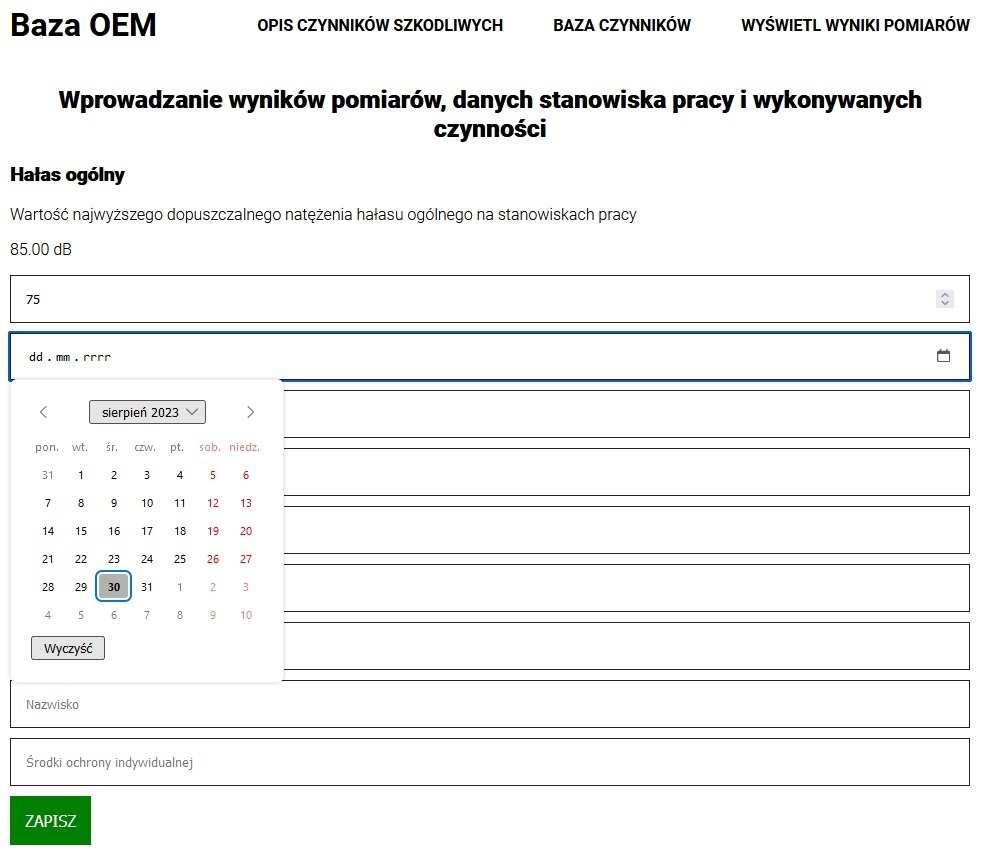
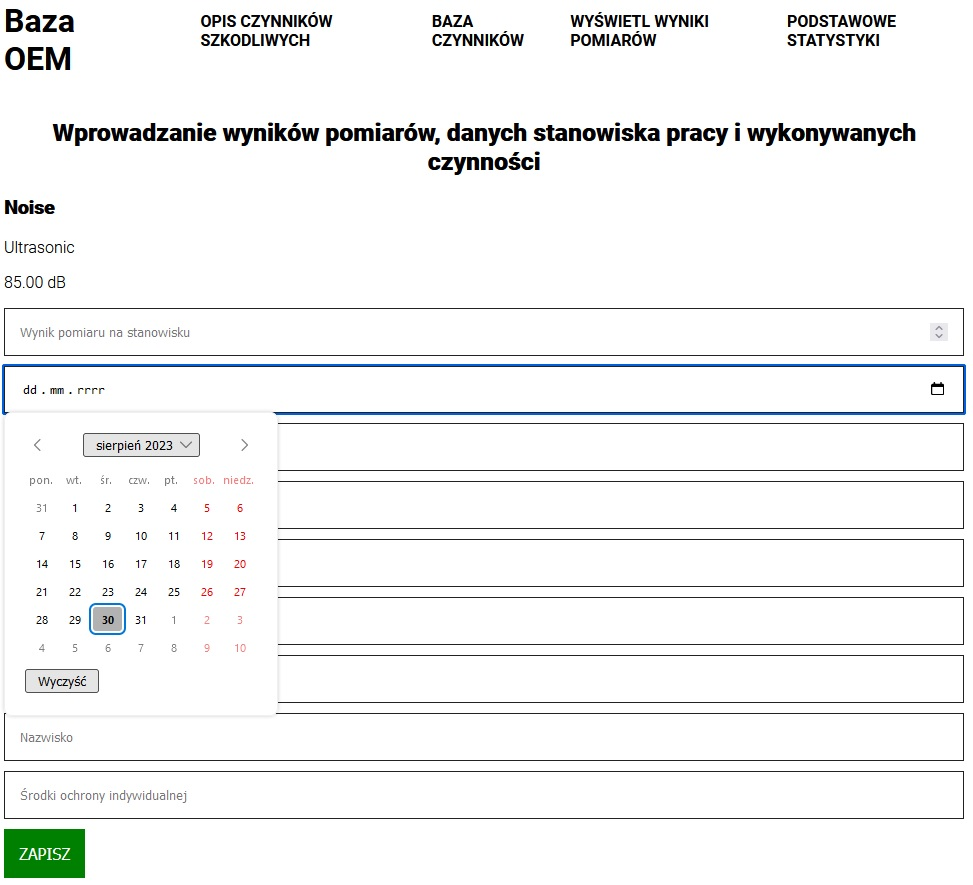
Dołożenie strony z podstaowymi statystykami, kontrolerem. Aktualizacji nawigacji, aktualizacja pliku readme, aktyalizacja obrazków

diff --git a/src/main/resources/templates/statPage.html b/src/main/resources/templates/statPage.html
@@ -1,0 +1,46 @@
+<!DOCTYPE html>
+<html lang="en" xmlns:th="https://www.thymeleaf.org"
+      th:replace="~{fragments/layout :: template (~{:: #stat_content})}">
+<section id="stat_content">
+    <div class="container">
+        <h1>Podstawowe statystyki pomiarów na stanowiskach pracy</h1>
+        <form action="">
+
+
+            <div>
+                <canvas id="myChart"></canvas>
+            </div>
+
+            <script src="https://cdn.jsdelivr.net/npm/chart.js"></script>
+
+            <script th:inline="javascript">
+                const ctx = document.getElementById('myChart');
+
+                new Chart(ctx, {
+                    type: 'bar',
+                    data: {
+                        labels: [[${labels}]],
+                        datasets: [{
+                            data: [[${data}]],
+                            borderWidth: 1
+                        }]
+                    },
+                    options: {
+                        plugins: {
+                            legend: {display: false}
+                        },
+                        scales: {
+                            y: {
+                                beginAtZero: true
+                            }
+                        }
+                    }
+                });
+            </script>
+
+
+
+        </form>
+    </div>
+</section>
+</html>

diff --git a/src/main/resources/templates/fragments/navigation.html b/src/main/resources/templates/fragments/navigation.html
@@ -11,6 +11,7 @@
         <a th:href="@{/factorDescription}" class="nav-item">Opis czynników szkodliwych</a>
         <a th:href="@{/oem-panel}" class="nav-item">Baza czynników</a>
         <a th:href="@{/result-table}" class="nav-item">Wyświetl wyniki pomiarów</a>
+        <a th:href="@{/stat-table}" class="nav-item">Podstawowe statystyki</a>
     </div>
 </nav>
 </body>

diff --git a/src/main/java/pl/wszib/oemdatabase/web/controllers/StatController.java b/src/main/java/pl/wszib/oemdatabase/web/controllers/StatController.java
@@ -1,0 +1,34 @@
+package pl.wszib.oemdatabase.web.controllers;
+
+import org.springframework.beans.factory.annotation.Autowired;
+import org.springframework.stereotype.Controller;
+import org.springframework.ui.Model;
+import org.springframework.web.bind.annotation.GetMapping;
+import org.springframework.web.bind.annotation.RequestMapping;
+import pl.wszib.oemdatabase.services.MeasurementService;
+import pl.wszib.oemdatabase.web.models.MeasurementModel;
+
+import java.util.List;
+import java.util.Map;
+import java.util.stream.Collectors;
+
+@Controller
+public class StatController {
+
+    @Autowired
+    MeasurementService measurementService;
+
+    @GetMapping ("/stat-table")
+    String statPage(Model model) {
+        List<MeasurementModel> measurementsPerformed = measurementService.findAll();
+        Map<String, Long> dataMap = measurementsPerformed.stream().collect(Collectors.groupingBy(MeasurementModel::getFactorName, Collectors.counting()));
+
+        model.addAttribute("labels", dataMap.keySet());
+        model.addAttribute("data", dataMap.values());
+
+
+        return "statPage";
+    }
+
+
+}

diff --git a/README.md b/README.md
@@ -17,6 +17,7 @@ Aplikacja składa się z następujących stron:
 - strony do wprowadzania i edytowania czynników szkodliwych występujących na stanowiskach pracy,
 - strony do wprowadzania wyników pomiarów,
 - strony do wyświetlania wyników pomiarów,
+- strony z podstawowymi statystykami,
 
 Strona startowa zawiera menu z odnośnikami do kolejnych stron. Na stronie startowej znajduje się odniesienie do wymagań
 prawnych dotyczących zasad prowadzenia pomiarów czynników szkodliwych na stanowiskach pracy.
@@ -33,6 +34,9 @@ stanowiska pracy, rodzaju czynika szkodliwego, daty pomiaru, wyniku pomiaru, a t
 prace na stanowisku.
 
 Strona do wyświetlania wyników pomiarów posiada, możliwość wyświetlania wyników w postaci tabelarycznej.
+
+Strona z podstawowymi statystykami służy do wyświetlania w postaci graficznej podstawowych zestawień statystycznych
+dotyczących wykonywanych pomiarów na stanowiskach pracy.
 
 ## Używanie aplikacji
 
@@ -137,6 +141,13 @@ czynników, dla których pomiary były wykonywane. Strona prezentuje tabelę zaw
 
 ![Wyniki pomiarow!](./src/main/resources/assets/images/result.jpg "Wyświetlanie wyników pomiarów")
 
+## Strona "Podstawowe statystyki"
+
+Strona "Podstawowe statystyki" ma za zadanie wyświetlić graficznie wybrane podstawowe statystyki dotyczące wykonywanych
+pomiarów. Między innymi na wykresie słupkowym wyświetlane sa ilości wykonanych pomiarów na stanowiskach pracy z
+podziałem na czynnik szkodliwy.
+
+![Podstawowe statystyki!](./src/main/resources/assets/images/stat.jpg "Wyświetlanie podstawowych statystyk")
 
 ## Budowa aplikacji "OEM Database"
 
